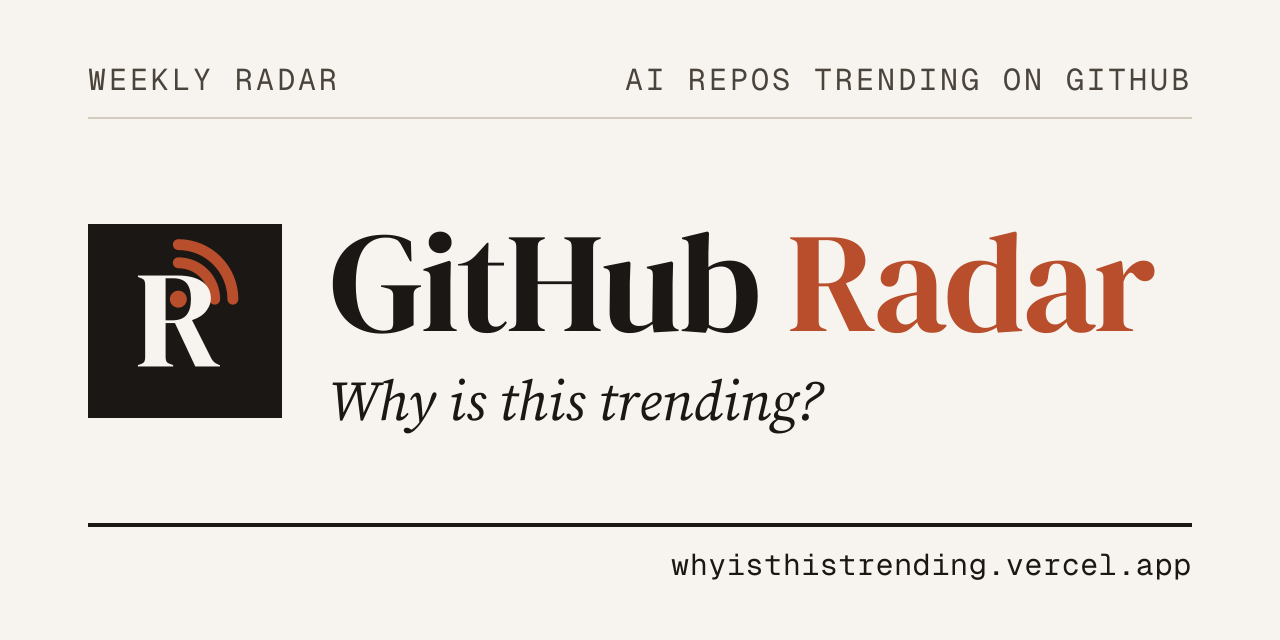
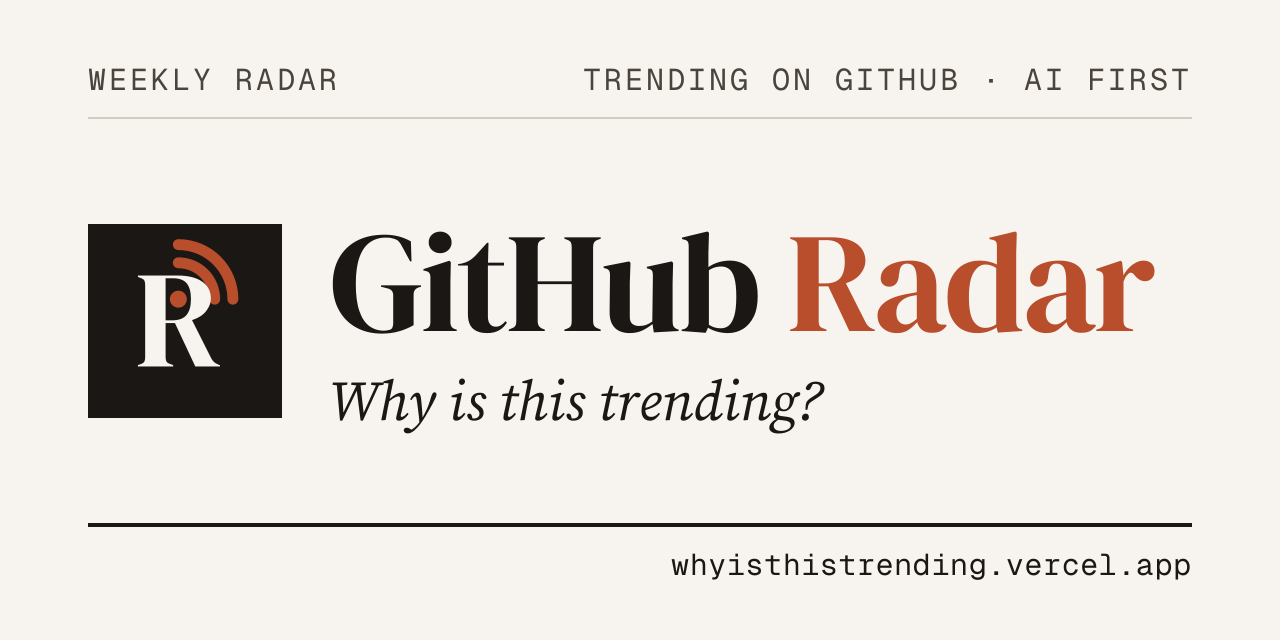
fix(copy): describe the radar as AI first, not AI only
Since 2026-10-19 the trending routine also admits dev-tool, security,
self-hosted and infra repos under per-field caps, so "trending AI repos"
undersells what a week can hold. The site description, README and the
social card's kicker now say "AI first". The card changes only that kicker
line; the image descriptions follow it.

Changed region(s): [[0.4375, 0.0938, 0.9375, 0.1562]]

diff --git a/app/layout.tsx b/app/layout.tsx
@@ -33,7 +33,7 @@ export const metadata: Metadata = {
   metadataBase: new URL(`https://${PRODUCTION_HOST}`),
   title: "GitHub Radar",
   description:
-    "Trending AI repos on GitHub, ranked by stars gained each week, each with a one-line summary and a sharp take.",
+    "Trending GitHub repos, AI first, ranked by stars gained each week, each with a one-line summary and a sharp take.",
 };
 
 // First visit only: once a theme cookie exists, the server renders the class itself.

diff --git a/README.md b/README.md
@@ -4,10 +4,10 @@
 
 [![CI](https://github.com/zexion7873/github-radar-ui/actions/workflows/ci.yml/badge.svg)](https://github.com/zexion7873/github-radar-ui/actions/workflows/ci.yml)
 
-<img src="app/opengraph-image.png" width="640" alt="GitHub Radar's social card: the site mark and its one-line description, a weekly radar of trending AI repos on GitHub.">
+<img src="app/opengraph-image.png" width="640" alt="GitHub Radar's social card: the site mark and its one-line description, a weekly radar of trending GitHub repos, AI first.">
 
-**A weekly radar of trending AI repos on GitHub, each with a one-line summary
-and a sharp take.**
+**A weekly radar of trending GitHub repos, AI first, each with a one-line
+summary and a sharp take.**
 
 [![Live site](https://img.shields.io/badge/live-whyisthistrending.vercel.app-black?style=flat)](https://whyisthistrending.vercel.app)
 [![Next.js 16](https://img.shields.io/badge/Next.js-16-black?style=flat)](NEXT16-BREAKING-CHANGES.md)
@@ -25,7 +25,7 @@ routines writes every week. The site never calls GitHub itself.
 | Page | Source table | Shows |
 |---|---|---|
 | `/` | Trending + Blog + Loot | **Dashboard**: the top five hot repos, the latest blog posts, and, for the signed-in owner only, one summary card per loot ledger |
-| `/trending`, `/trending/[id]` | Trending Archive | Weekly trending AI repos, filterable by category, with 新上榜 / 在榜週數 badges; one page per repo |
+| `/trending`, `/trending/[id]` | Trending Archive | Weekly trending repos, AI first, filterable by category, with 新上榜 / 在榜週數 badges; one page per repo |
 | `/blog`, `/blog/[id]` | Blog Archive | AI and agent blog posts grouped 官方 / 個人, each with a summary and a 點評, newest first |
 | `/ask` | none (radar-rag) | **Ask the radar**: questions in Chinese or English, answered from the Trending and Blog archives with citations that link to the detail pages here |
 | `/loot/[target]`, `/loot/[target]/[id]` | Loot Ledger (`claude` / `copilot` / `opencode` / `codex`) | **Owner only.** Config assets worth stealing into each coding agent's setup, grouped by status, with an editable status |
